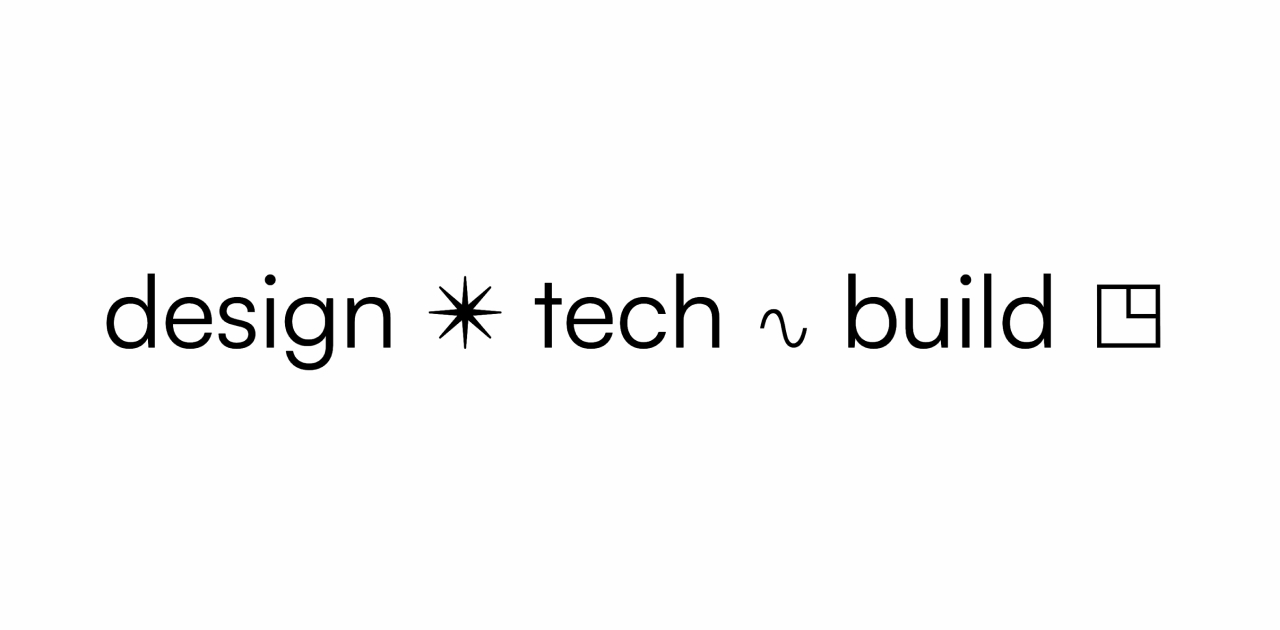
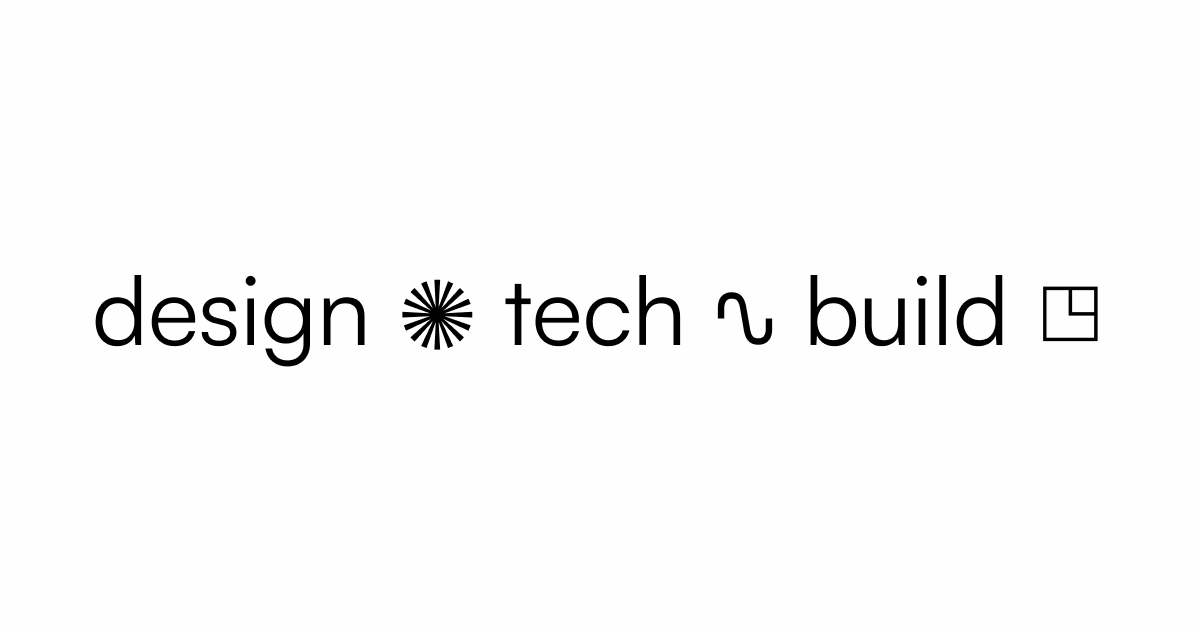
update structure, og image

Changed region(s): [[0.3392, 0.4222, 0.925, 0.573], [0.0617, 0.4222, 0.3083, 0.6032]]

diff --git a/src/app/page.tsx b/src/app/page.tsx
@@ -2,6 +2,7 @@ import ScrambleCombined from "@/components/scramble-combined";
 import ScrambleIn from "@/components/scramble-in";
 import ScrambleCombinedPair from "@/components/scramble-combined-pair";
 import { experiences, projects, socials } from "@/data/content";
+import Star from "@/components/star";
 
 const ROW_DELAY = 30;
 const SCRAMBLE_SPEED = 30;
@@ -13,13 +14,13 @@ const getAnimationDuration = (text: string) => {
 
 export default function Home() {
   return (
-    <main className="min-h-screen bg-[#fefefe] text-black p-6 sm:p-8 md:p-10 lg:p-12 font-normal text-[3.5vw] sm:text-lg md:text-2xl lg:text-3xl xl:text-4xl">
+    <main className="min-h-screen bg-[#fefefe] text-black px-4 pt-10 sm:px-2 sm:pt-10 md:pt-10 lg:pt-12 md:p-10 lg:p-12 font-normal text-[4vw] sm:text-xl md:text-2xl lg:text-3xl xl:text-4xl leading-tight">
       <div>
       <div className="relative max-w-screen-2xl mx-auto flex flex-col gap-8 sm:gap-10 md:gap-12 lg:gap-14">
 
         {/* Header - Row 1 */}
         <div className="flex mb-4 sm:mb-8 md:mb-12 lg:mb-16 xl:mb-20">
-          <div className="w-1/3 sm:w-1/3 md:w-1/4 lg:w-1/4 xl:w-[22%]">
+          <div className="w-[30%]  text-right pr-4 sm:pr-6 md:pr-8 lg:pr-12  sm:w-1/3 md:w-1/4 lg:w-1/4 xl:w-[22%]">
             <h1>
               <ScrambleCombined
                 delay={0}
@@ -37,7 +38,7 @@ export default function Home() {
                 scrambledLetterCount={SCRAMBLED_LETTER_COUNT}
                 scrambleSpeed={SCRAMBLE_SPEED}
               >
-                design ✴ tech ∿ build ◳
+                design ✺ tech ∿ build ◳
               </ScrambleIn>
             </h1>
             <a
@@ -60,7 +61,7 @@ export default function Home() {
 
         {/* Previous Experience */}
         <div className="flex">
-          <h2 className="w-1/3 sm:w-1/3 md:w-1/4 lg:w-1/4 xl:w-[22%]">
+          <h2 className="w-[30%] text-right pr-4 sm:pr-6 md:pr-8 lg:pr-12 sm:w-1/3 md:w-1/4 lg:w-1/4 xl:w-[22%]">
             <ScrambleIn
               delay={ROW_DELAY * 3}
               scrambledLetterCount={SCRAMBLED_LETTER_COUNT}
@@ -88,7 +89,7 @@ export default function Home() {
                   }
                   scrambledLetterCount={SCRAMBLED_LETTER_COUNT}
                   scrambleSpeed={SCRAMBLE_SPEED}
-                  containerClassName="group justify-between transition-colors border-b-2 md:hover:border-foreground border-b-transparent cursor-pointer md:py-1"
+                  containerClassName="group justify-between transition-colors border-b-2 md:hover:border-foreground border-b-transparent cursor-pointer py-0 md:py-0.5 lg:py-1"
                 />
               </a>
             ))}
@@ -97,7 +98,7 @@ export default function Home() {
 
         {/* Projects */}
         <div className="flex">
-          <h2 className="w-1/3 sm:w-1/3 md:w-1/4 lg:w-1/4 xl:w-[22%]">
+          <h2 className="w-[30%] text-right pr-4 sm:pr-6 md:pr-8 lg:pr-12  sm:w-1/3 md:w-1/4 lg:w-1/4 xl:w-[22%]">
             <ScrambleIn
               delay={ROW_DELAY * 7}
               scrambledLetterCount={SCRAMBLED_LETTER_COUNT}
@@ -128,7 +129,7 @@ export default function Home() {
                     showImage={true}
                     scrambledLetterCount={SCRAMBLED_LETTER_COUNT}
                     scrambleSpeed={SCRAMBLE_SPEED}
-                    containerClassName="group justify-between transition-colors border-b-2 md:hover:border-foreground border-b-transparent cursor-pointer md:py-1"
+                    containerClassName="group justify-between transition-colors border-b-2 md:hover:border-foreground border-b-transparent cursor-pointer py-0 md:py-0.5 lg:py-1"
                   />
                 </a>
               </li>
@@ -138,7 +139,7 @@ export default function Home() {
 
         {/* Contact */}
         <div className="flex">
-          <h2 className="w-1/3 sm:w-1/3 md:w-1/4 lg:w-1/4 xl:w-[22%]">
+          <h2 className="w-[30%] text-right pr-4 sm:pr-6 md:pr-8 lg:pr-12  sm:w-1/3 md:w-1/4 lg:w-1/4 xl:w-[22%]">
             <ScrambleIn
               delay={ROW_DELAY * 15}
               scrambledLetterCount={SCRAMBLED_LETTER_COUNT}
@@ -164,7 +165,7 @@ export default function Home() {
                   href={social.links}
                   target="_blank"
                   rel="noopener noreferrer"
-                  className="cursor-pointer border-b-2 border-transparent md:hover:border-foreground md:py-1 inline-block"
+                  className="cursor-pointer border-b-2 border-transparent md:hover:border-foreground py-0 md:py-0.5 lg:py-1 inline-block"
                 >
                   <ScrambleCombined
                     delay={

diff --git a/src/data/content.ts b/src/data/content.ts
@@ -36,13 +36,13 @@ export const projects = [
     img: "./img/prev.webp"
   },
   {
-    title: "pool group *xorxor",
+    title: "pool group＊xorxor",
     year: "2023",
     links: "https://medencecsoport.hu/",
     img: "./img/pool.webp"
   },
   {
-    title: "vodafone lobby *xorxor",
+    title: "vodafone lobby＊xorxor",
     year: "2023",
     links: "https://xorxor.hu/projects/vodafone-dataviz.html",
     img: "./img/vodafone.webp"
@@ -54,19 +54,19 @@ export const projects = [
     img: "./img/terrestrial.webp"
   },
   {
-    title: "skanzen transylvania *xorxor",
+    title: "skanzen transylvania＊xorxor",
     year: "2022",
     links: "https://xorxor.hu/projects/Skanzen.html",
     img: "./img/skanzen.webp"
   },
   {
-    title: "gazelle flip — music video *extrawelt ",
+    title: "gazelle flip — video＊extrawelt ",
     year: "2021",
     links: "https://www.youtube.com/watch?v=NY1mWQIqTBU",
     img: "./img/gazelle.webp"
   },
   {
-    title: "streiflicht — music video *extrawelt",
+    title: "streiflicht — video＊extrawelt",
     year: "2021",
     links: "https://www.youtube.com/watch?v=Cft0Ea__Ezs",
     img: "./img/streiflicht.webp"
